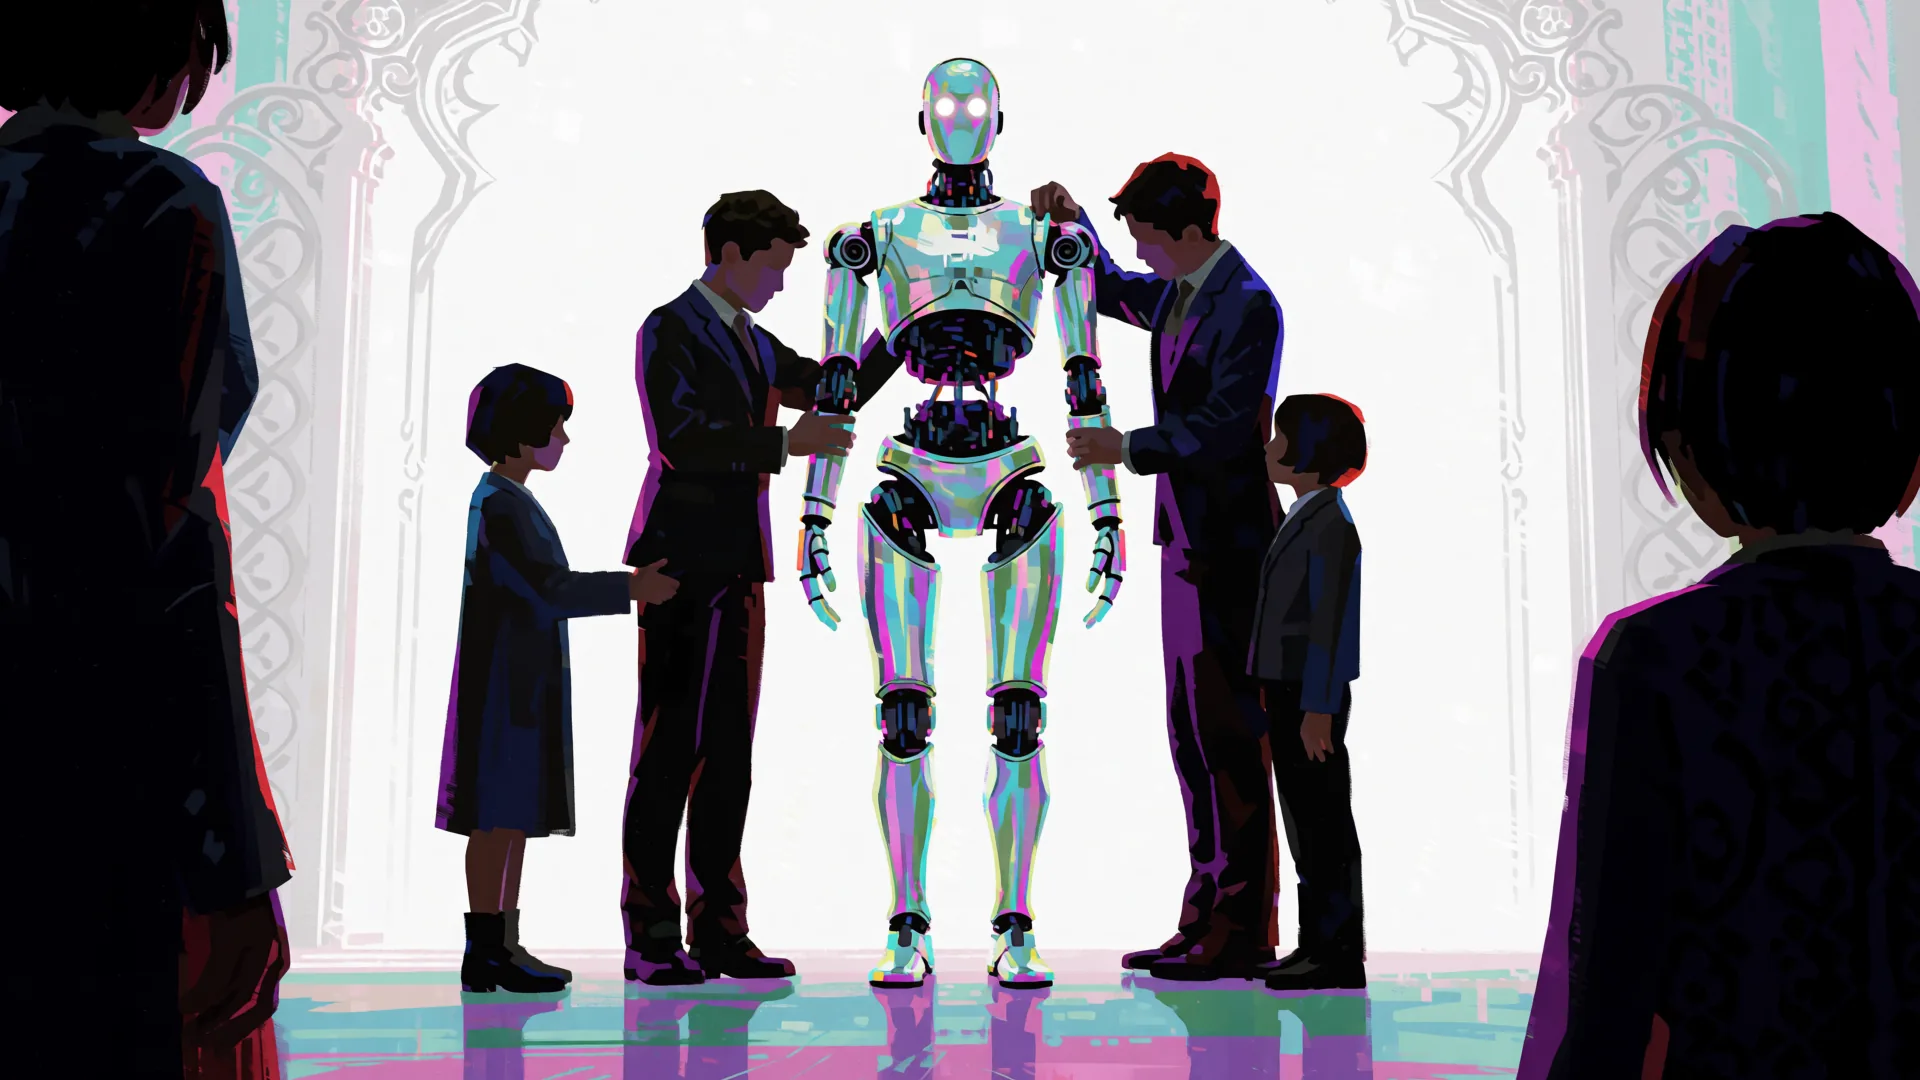
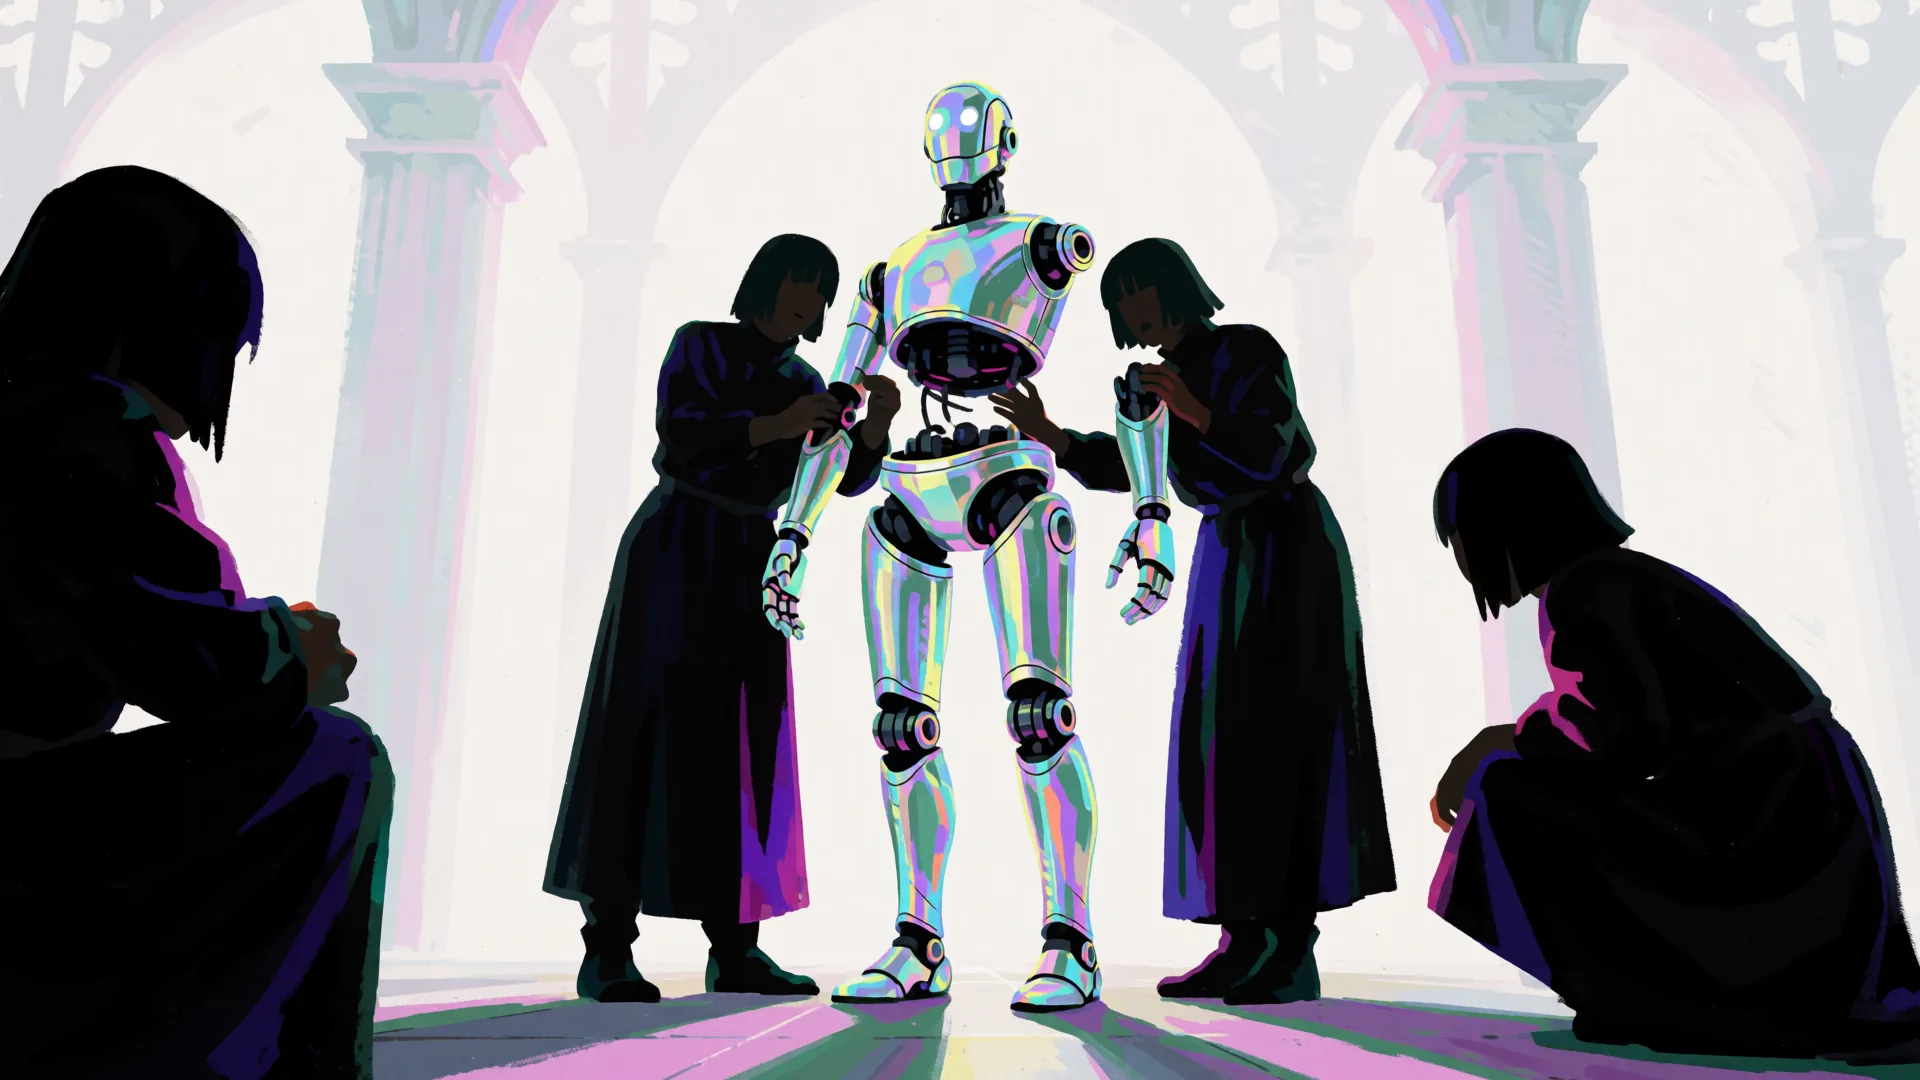
Read all fifty cutscene plates against their slide text, and make re-roll work
Closes the oldest open item in docs/OWNER-NOTES-CAMPAIGN2.md section E, which
has been waiting since the plates were rendered: verify each plate reads
against its slide text and re-roll the misses.

artgen/review_sheet.py pairs every plate with the line it actually ships under,
six to a sheet, pulled from the shipped CUTSCENES object rather than re-typed.
Reading 50 full plates one at a time is the expensive way to make the same
judgement.

48 of 50 read correctly, several exactly: light_sys2 shows a page stamped
DEFERRED three times, which is its line verbatim; xeno_sys3 shows the matriarch
holding the captured human rifle; human_sys4 stacks the supply crates into the
fence line the text warns about; robot_intro_3 is a wall of hostile red glyphs
with a few calm blue ones left.

Two missed. robot_intro_4 had rendered humans in business suits around a robot,
on the one faction that is machines only, and pirate_sys3 had neither the
captain nor the wheel its line is about. Both are re-rolled.

AND THE DOCUMENTED WAY TO RE-ROLL COULD NOT WORK. `--force <key>` deletes the
cache and re-renders, but the seed is a pure function of the key, so it
reproduces the SAME image exactly: the only tool for fixing a missed plate was
a no-op that costs a minute of GPU to prove it. krea_gen.py gains --variant N,
which seeds from `key#N` instead. Variant 0 is the shipped seed unchanged and
asserted so before use, because every approved plate in the catalogue is on
[…]

diff --git a/docs/OWNER-NOTES-CAMPAIGN2.md b/docs/OWNER-NOTES-CAMPAIGN2.md
@@ -159,13 +159,40 @@ fingerprint-verified.
 - `[x]` **HD art pass: DONE, Session 37.** 52 keys at 1920x1080 on Krea 2 on
   the 5090, 48.4s per image, gate clean. Numbers in C3, decisions in BRAND.md,
   the one open question in section G.
-- `[ ]` **Read the fifty plates against their slide text.** Now unblocked: the
-  HD pass is the render this was waiting for, so a miss judged today will
-  survive. Four factions were spot-checked by eye during the batch (human,
-  Light, xeno, robot read correctly against their briefs; pirate `intro_1`
-  is the one to look at first, since its prompt says "neon nebula" and the
-  nebula takes more of the frame than the crimson ships do). The other 45 are
-  unread. Re-roll a miss by key with `--force`, never by editing the prompt.
+- `[x]` **Read the fifty plates against their slide text. DONE, Session 38.**
+  All 50 read on contact sheets pairing each plate with the line it ships
+  under (`artgen/review_sheet.py`, six to a sheet, nine sheets).
+
+  **48 of 50 read correctly**, several of them exactly: `light_sys2` shows a
+  page stamped DEFERRED three times, which is its line verbatim;
+  `xeno_sys3` shows the matriarch holding the captured human rifle;
+  `human_sys4` stacks the supply crates into the fence line the text warns
+  about; `pirate_intro_4` splits the hold between medicine and the sealed
+  container; `robot_intro_3` is a wall of hostile red glyphs with a few calm
+  blue ones left. `pirate_intro_2` is the multi-species free port the owner
+  later asked the content law to guarantee, rendered before the law existed.
+
+  **Two missed and were re-rolled.** `robot_intro_4` had rendered humans in
+  business suits around a robot, on the one faction that is machines only;
+  `pirate_sys3` had no captain and no wheel. Both are now variant 1.
+
+  **Neither re-roll is a clean hit and that is worth saying.**
+  `robot_intro_4` v1 replaces the businessmen with hooded figures around a
+  standing automaton: better, and still not the "identical siblings" the
+  brief asks for. `pirate_sys3` v1 gains the wheel its line is about but is
+  still a ship on WATER rather than in space, and no variant will fix that,
+  because the prompt never says space. Variant 2 was rendered for both and
+  measured worse; v1 is what ships.
+
+  `[ ]` **Owner decision: `pirate_sys3`'s prompt has no space cue.** Fixing
+  it properly means editing the prompt, which the class law forbids without
+  an owner instruction. Say the word and it is one line.
+
+  Minor, recorded and NOT acted on: a few plates carry incidental lettering
+  (a "MEDICE" crate stencil, CJK-looking glyphs on three robot plates)
+  against a STYLE that asks for no text, and three plates lean photoreal
+  where the rest are flat-painted (`human_intro_5` moon, `human_sys1` Earth,
+  `light_intro_2` Earth). All are judgement calls rather than misses.
 
 ## F. Cross-checks the batch held to
 
